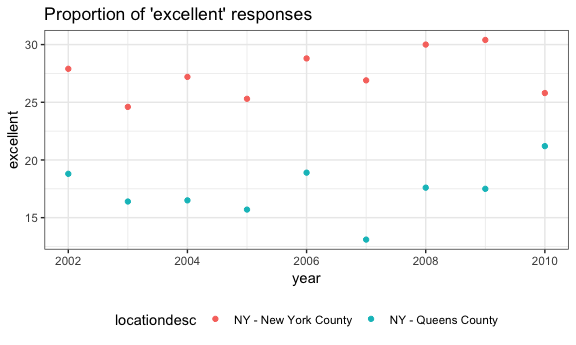
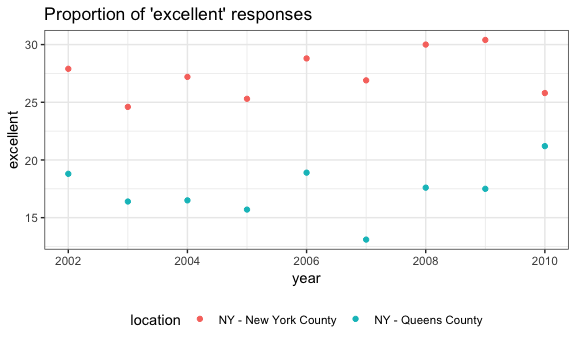
adding final edits

Changed region(s): [[0.1875, 0.8986, 0.875, 0.9565]]

diff --git a/p8105_hw2_ja3314.md b/p8105_hw2_ja3314.md
@@ -5,29 +5,14 @@ Jaisal Amin
 Problem 1
 ---------
 
+**Reading and cleaning NYC Transit data :**
+
 ``` r
 transit_df = read_csv("./data/NYC_Transit_Subway_Entrance_And_Exit_Data.csv") %>% 
   janitor::clean_names() %>% 
   select(line, station_name, station_latitude, station_longitude, entry, vending, entrance_type, ada, starts_with("route")) %>% 
   mutate(entry = recode(entry, `YES` = "TRUE", `NO` = "FALSE"))
 ```
-
-    ## Parsed with column specification:
-    ## cols(
-    ##   .default = col_character(),
-    ##   `Station Latitude` = col_double(),
-    ##   `Station Longitude` = col_double(),
-    ##   Route8 = col_integer(),
-    ##   Route9 = col_integer(),
-    ##   Route10 = col_integer(),
-    ##   Route11 = col_integer(),
-    ##   ADA = col_logical(),
-    ##   `Free Crossover` = col_logical(),
-    ##   `Entrance Latitude` = col_double(),
-    ##   `Entrance Longitude` = col_double()
-    ## )
-
-    ## See spec(...) for full column specifications.
 
 This dataset contains information on different lines and stations in the NYC transit system. The variables it contains range from station name and location to various aspects of the station such as type of entrance and whether or not is is ADA compliant and the subway routes that run through the station. To tidy this data, I first read in the CSV file then cleaned the names. I then selected the variables I was interested in and recoded the data in the 'entry' column to read as either TRUE or FALSE. This data frame's dimensions are \[1868, 19\] \[rows x columns\]. These data are more tidy now than they were in the .csv file however the way the route data - specifically route number and names - is presented could still be improved.
 
@@ -137,6 +122,8 @@ The first dataset contains multiple variables regarding the amount and types of 
 Problem 3
 ---------
 
+**Reading and cleaning BRFSS data :**
+
 ``` r
 brfss_df = filter(brfss_smart2010, Topic == "Overall Health") %>% # focusing on "overall health" topic
   janitor::clean_names() %>% 
@@ -162,10 +149,6 @@ brfss_df %>%
   )
 ```
 
-    ## Adding missing grouping variables: `year`
-
-    ## `stat_bin()` using `bins = 30`. Pick better value with `binwidth`.
-
     ## Warning: Removed 2 rows containing non-finite values (stat_bin).
 
 <img src="p8105_hw2_ja3314_files/figure-markdown_github/unnamed-chunk-12-1.png" width="90%" />
@@ -176,7 +159,8 @@ brfss_df %>%
 brfss_df %>% 
   filter(locationdesc %in% c("NY - New York County", "NY - Queens County")) %>% 
   select(year, locationdesc, excellent) %>% 
-  ggplot(aes(x = year, y = excellent, color = locationdesc)) + 
+  rename(location = locationdesc) %>% 
+  ggplot(aes(x = year, y = excellent, color = location)) + 
   geom_point() +
   labs(
     title = "Proportion of 'excellent' responses"
